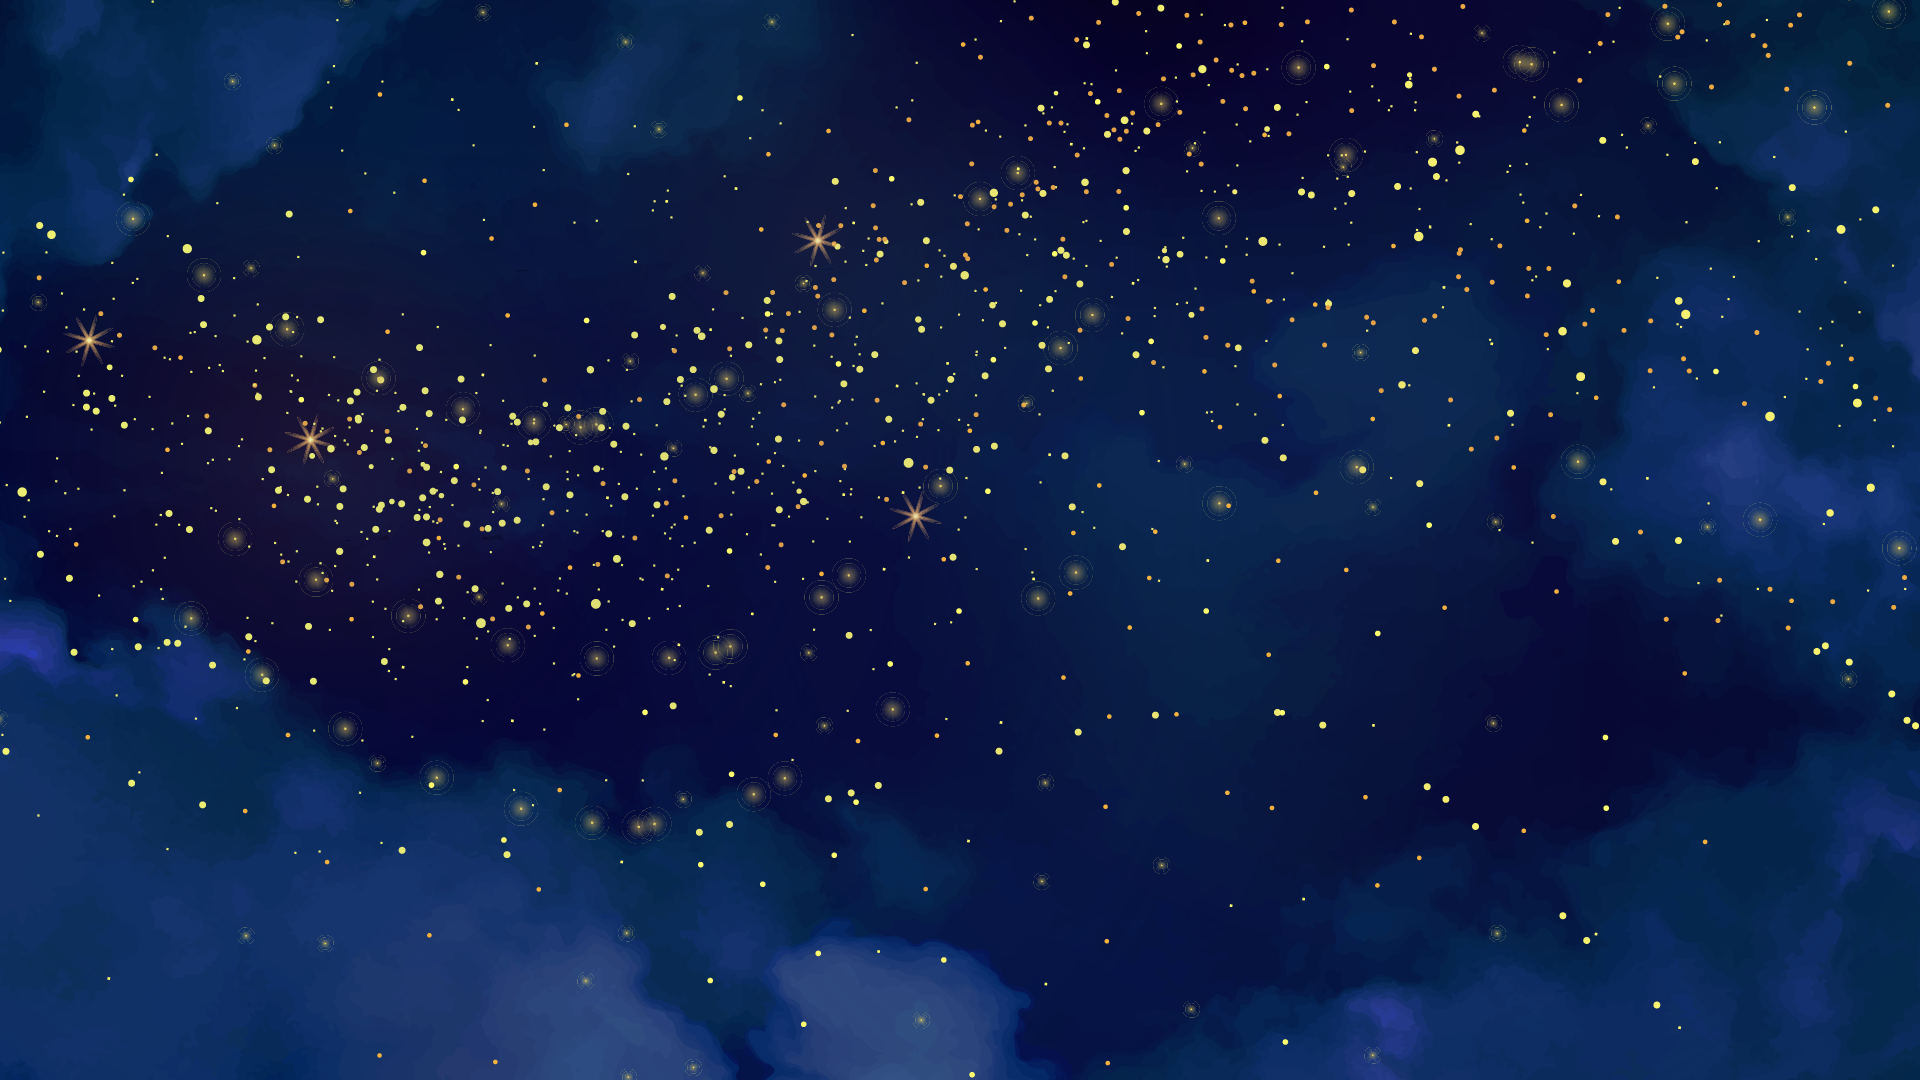
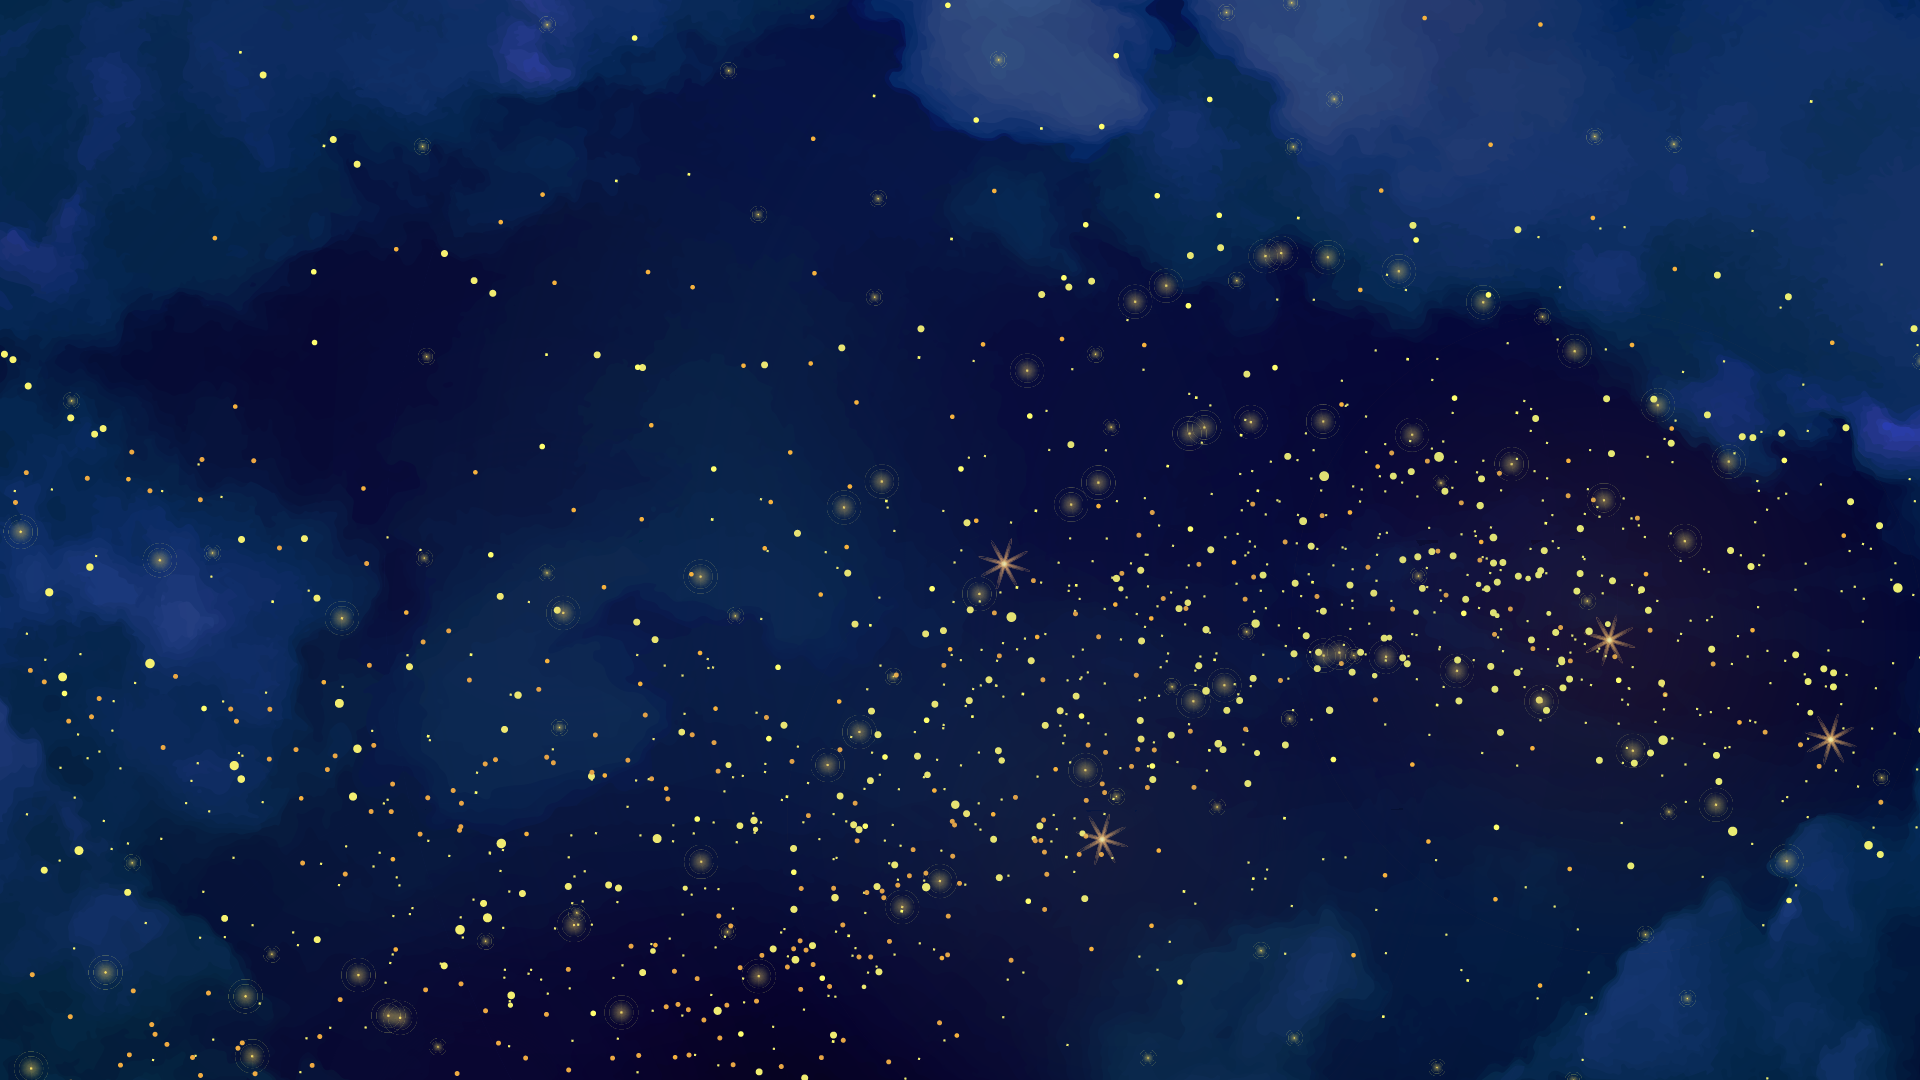
"Ciroc" modifications

diff --git a/el-ciroc/christmas/index.html b/el-ciroc/christmas/index.html
@@ -31,13 +31,10 @@
                 --transparent-black: #000000e0;
             }
             body {
-                background-image: url("assets/Background_3.png");
+                background-image: url("assets/Background_4.png");
                 background-size: cover;
                 background-position: center;
                 background-attachment: fixed;
-            }
-            header {
-                background-color: var(--transparent-white);
             }
             .logo {
                 width: 100px;
@@ -52,6 +49,11 @@
             .ratio {
                 background-color: var(--transparent-white);
                 /* transition: all .5s; */
+            }
+            .fixed-bottom {
+                left: auto;
+                right: 1rem;
+                bottom: 1rem;
             }
             /* .ratio:hover {
                 -webkit-filter: invert(100%);
@@ -68,36 +70,32 @@
     <body>
         <header>
             <div class="container-fluid">
-                <div class="row">
-                    <div class="col-5 col-lg-3">
+                <div class="row mb-5">
+                    <div class="col-5 col-sm-6">
                         <div class="d-flex w-100 h-100 align-items-center">
                             <a href="https://gr.hellomagazine.com/">
                                 <img src="https://alpha-editions.github.io/custom-templates/hl-hellenica/assets/hello.png" alt="Λογότυπο Hello!" class="logo">
                             </a>
                         </div>
                     </div>
-                    <div class="col-7 col-lg-3 order-lg-2">
+                    <div class="col-7 col-sm-6">
                         <div class="d-flex w-100 h-100 align-items-center justify-content-end">
-                            <span>powered by</span>
+                            <span class="text-white">powered by</span>
                             <a href="https://www.ciroc.com/en-row/">
-                                <img src="assets/ciroc.png" alt="Λογότυπο Ciroc" class="ciroc">
+                                <img src="assets/ciroc-w.png" alt="Λογότυπο Ciroc" class="ciroc">
                             </a>
                         </div>
                     </div>
-                    <div class="col-12 col-lg-6 order-lg-1">
-                        <div class="d-flex w-100 h-100 align-items-center justify-content-center">
-                            <h1 class="display-6 text-center">The <b>C</b>hristmas <b>I</b>deal <b>R</b>adiant <b>O</b>bliging <b>C</b>alendar</h1>
-                        </div>
-                    </div>
                 </div>
+                <h1 class="display-5 text-center text-white mb-4">The <b>C</b>hristmas <b>I</b>deal <b>R</b>adiant <b>O</b>bliging <b>C</b>alendar</h1>
             </div>
         </header>
         <main class="position-relative py-5">
             <div class="container-lg">
-                <div class="px-5 text-center">
-                    <p class="intro mb-5 text-center h4 text-white fw-light p-4 d-inline-block rounded lh-lg">Welcome... στο πιο λαμπερό online advent calendar.<br>Κάθε μέρα κι ένα κουτί ανοιχτό.<br>Κάθε μέρα και μία ωραία χριστουγεννιάτικη ιδέα.</p>
+                <div class="text-center">
+                    <p class="mb-5 text-center h4 text-white fw-light d-inline-block rounded lh-lg">Welcome... στο πιο λαμπερό online advent calendar!<br>Κάθε μέρα κι ένα κουτί ανοιχτό.<br>Κάθε μέρα και μία ωραία χριστουγεννιάτικη ιδέα.</p>
                 </div>
-                <div class="row g-3 justify-content-center">
+                <div class="row g-3 justify-content-center pt-5">
                     <div class="col-6 col-sm-4 col-md-3 col-xl-2">
                         <a href="#" class="d-block ratio ratio-1x1 rounded text-dark animate__animated animate__fadeIn" style="animation-delay: 0.1s; background-image: url('assets/box1.jpg'); background-size: cover;">
                             <div class="position-relative">
@@ -247,7 +245,7 @@
                     </div>
                 </div>
             </div>
-            <button type="button" class="btn p-2 position-absolute top-0 end-0 text-white" onclick="share()">
+            <button type="button" class="btn btn-primary shadow p-2 fixed-bottom text-white rounded-circle" onclick="share()">
                 <svg xmlns="http://www.w3.org/2000/svg" width="30" height="30" id="share-icon" fill="currentColor" class="bi bi-share-fill" viewBox="0 0 16 16">
                     <path d="M11 2.5a2.5 2.5 0 1 1 .603 1.628l-6.718 3.12a2.499 2.499 0 0 1 0 1.504l6.718 3.12a2.5 2.5 0 1 1-.488.876l-6.718-3.12a2.5 2.5 0 1 1 0-3.256l6.718-3.12A2.5 2.5 0 0 1 11 2.5z"/>
                 </svg>
